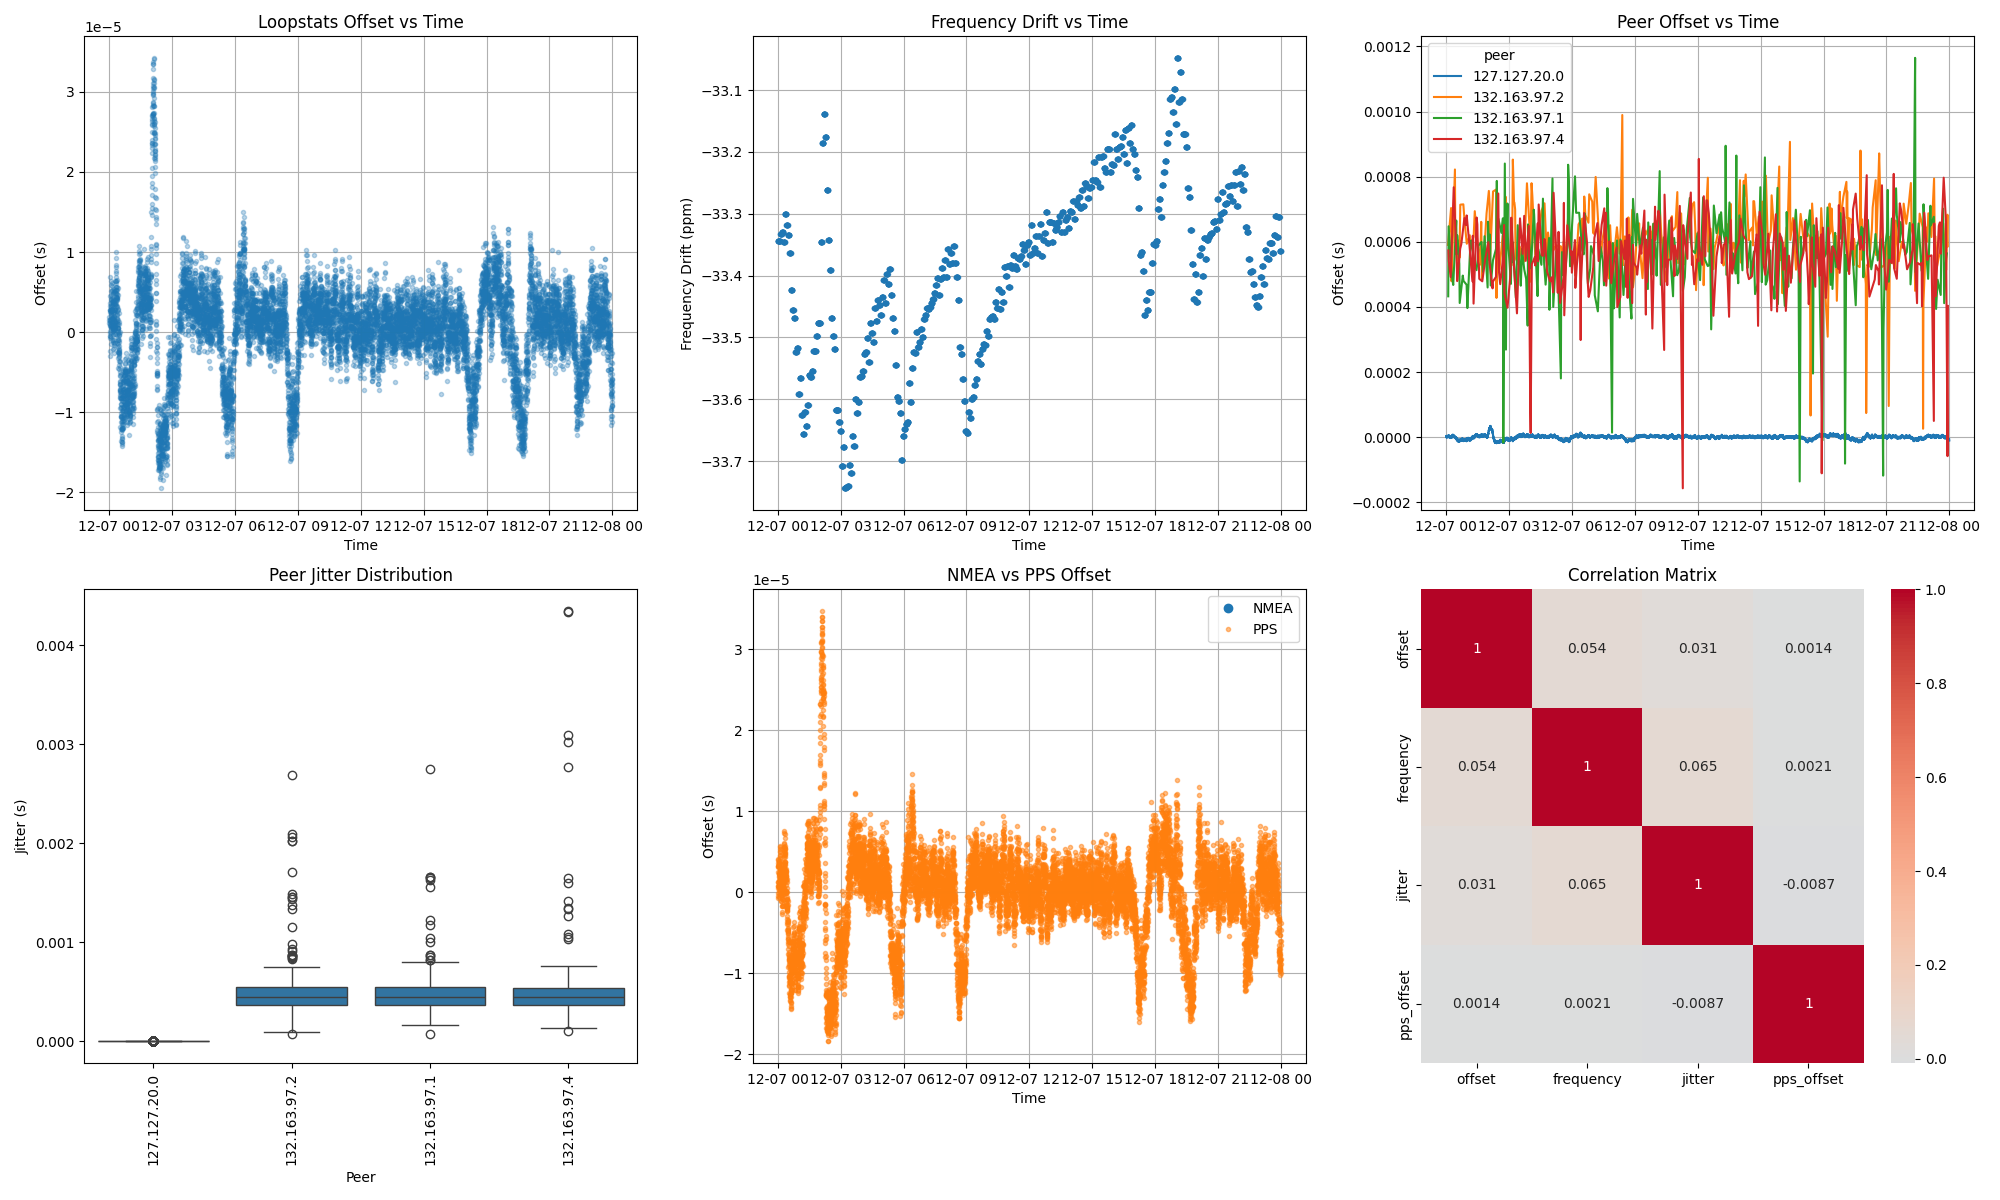
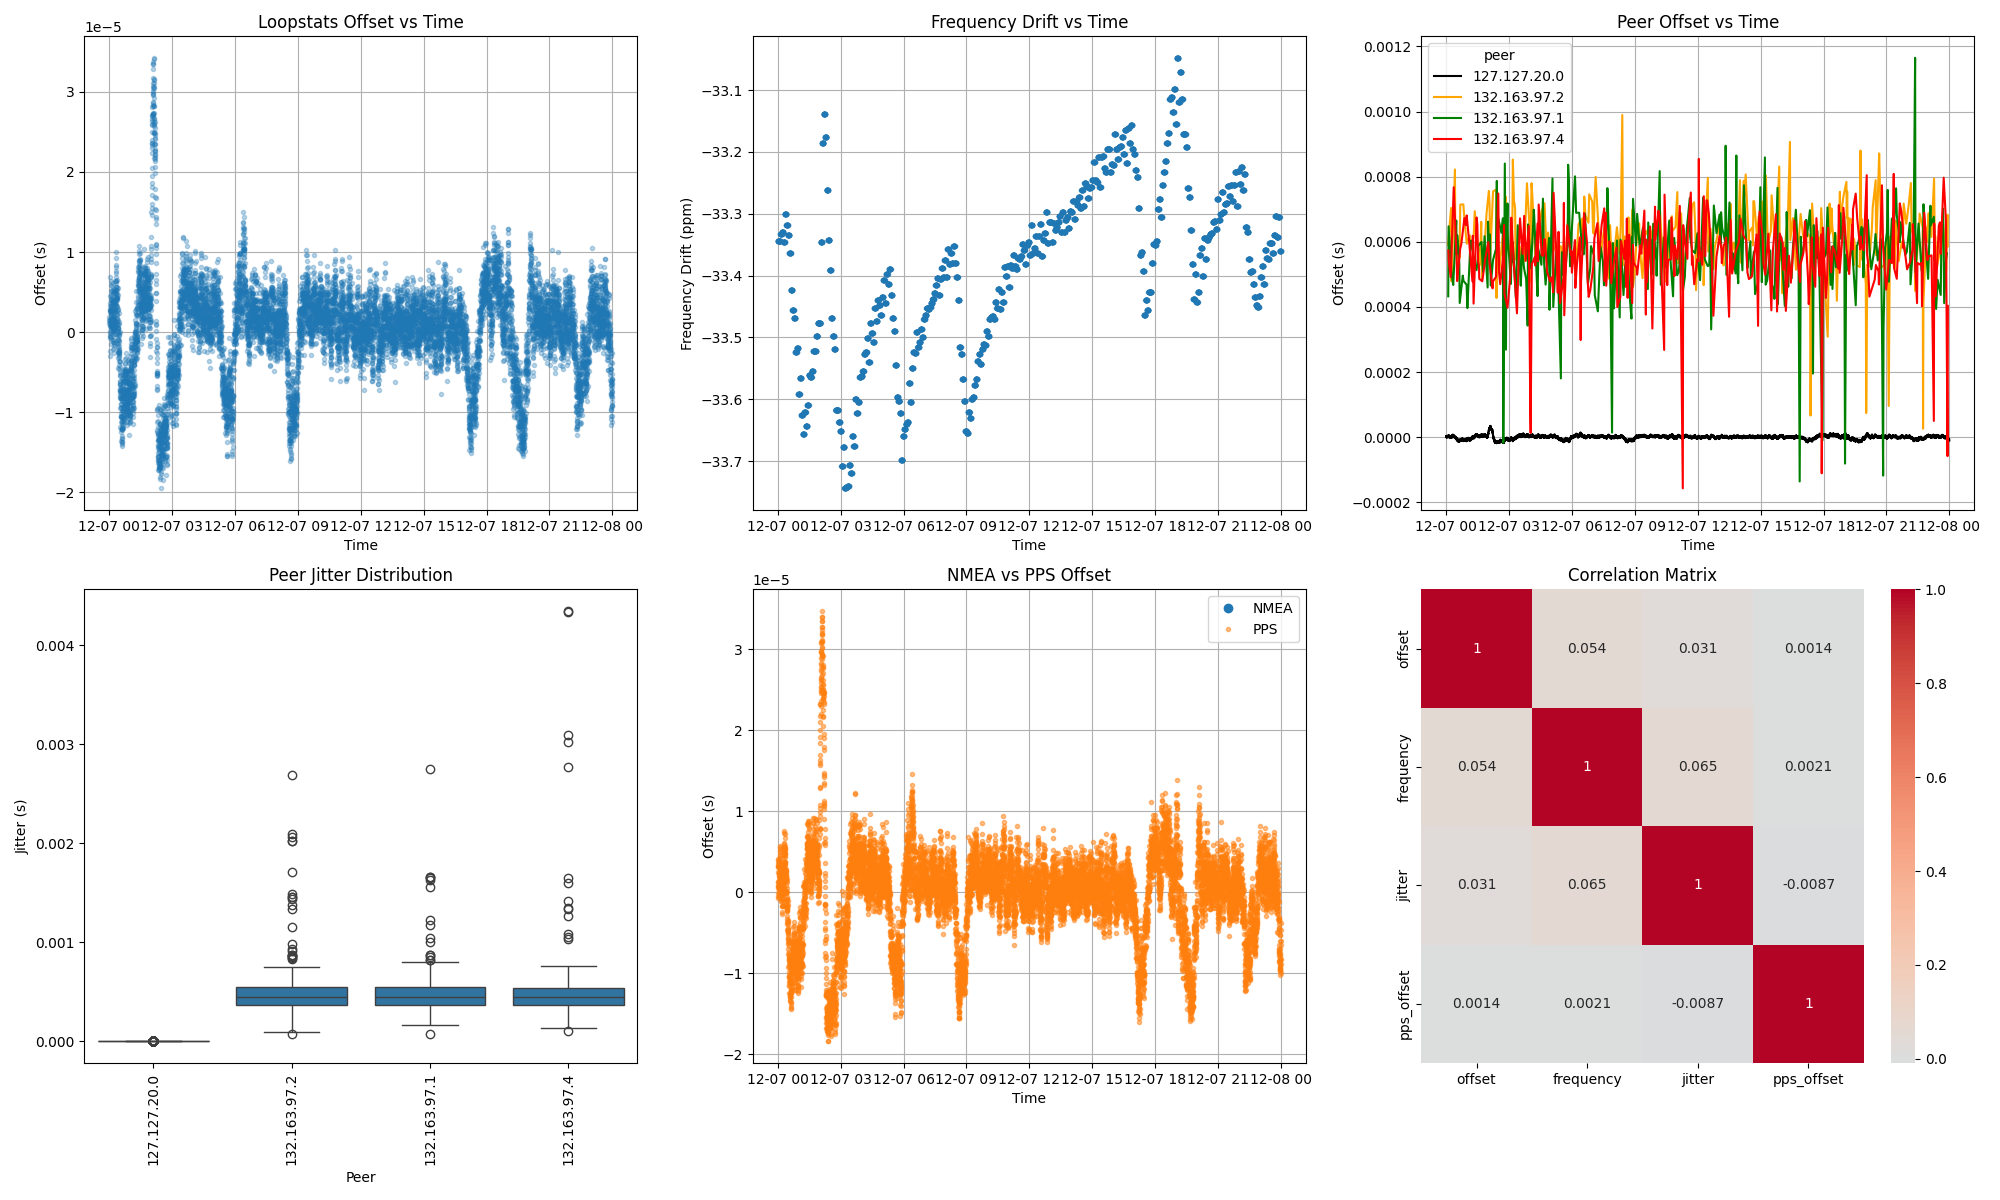
update ntp_local_analysis.py and plots

Changed region(s): [[0.713, 0.1233, 0.992, 0.37]]

diff --git a/ntp_local_analysis.py b/ntp_local_analysis.py
@@ -57,8 +57,8 @@ peer["ts"] = mjd_to_datetime(peer["mjd"], peer["seconds"])
 clock["ts"] = mjd_to_datetime(clock["mjd"], clock["seconds"])
 
 # --- Compliance Thresholds for Local PPS ---
-THRESHOLD_OFFSET = 0.00005   # 50 microseconds
-THRESHOLD_JITTER = 0.00002   # 20 microseconds
+THRESHOLD_OFFSET = 0.00002   # 20 microseconds
+THRESHOLD_JITTER = 0.00001   # 10 microseconds
 
 # --- Compliance Scoring ---
 peer_stats = peer.groupby("peer").agg(
@@ -79,6 +79,14 @@ peer_stats["monitor_score"] = (
 
 print("\nLocal PPS Compliance Scoring Table:")
 print(peer_stats.sort_values("monitor_score", ascending=False))
+
+# --- Custom Palette ---
+custom_palette = {
+    "127.127.20.0": "black",
+    "132.163.97.1": "green",
+    "132.163.97.2": "orange",
+    "132.163.97.4": "red"
+}
 
 # --- Loopstats Offset vs Time ---
 plt.figure(figsize=(12,6))
@@ -106,17 +114,21 @@ plt.savefig("loopstats_frequency_vs_time.png")
 
 # --- Peer Offset vs Time ---
 plt.figure(figsize=(12,6))
-sns.lineplot(x="ts", y="offset", hue="peer", data=peer, marker="o")
+non_local = peer[peer["peer"] != "127.127.20.0"]
+sns.lineplot(x="ts", y="offset", hue="peer", data=non_local, marker="o", palette=custom_palette)
+local = peer[peer["peer"] == "127.127.20.0"]
+plt.plot(local["ts"], local["offset"], "o", color="black", label="127.127.20.0", markersize=4)
 plt.title("Peer Offset vs Time")
 plt.xlabel("Time")
 plt.ylabel("Offset (s)")
 plt.grid(True)
+plt.legend()
 plt.tight_layout()
 plt.savefig("peerstats_offset_vs_time.png")
 
 # --- Peer Jitter Distribution ---
 plt.figure(figsize=(8,6))
-sns.boxplot(x="peer", y="jitter", data=peer)
+sns.boxplot(x="peer", y="jitter", hue="peer", data=peer, palette=custom_palette, legend=False)
 plt.xticks(rotation=90)
 plt.title("Peer Jitter Distribution")
 plt.xlabel("Peer")
@@ -225,7 +237,7 @@ axes[0,1].set_ylabel("Frequency Drift (ppm)")
 axes[0,1].grid(True)
 
 # Panel 3: Peer Offset
-sns.lineplot(x="ts", y="offset", hue="peer", data=peer, ax=axes[0,2])
+sns.lineplot(x="ts", y="offset", hue="peer", data=peer, ax=axes[0,2], palette=custom_palette)
 axes[0,2].set_title("Peer Offset vs Time")
 axes[0,2].set_xlabel("Time")
 axes[0,2].set_ylabel("Offset (s)")
